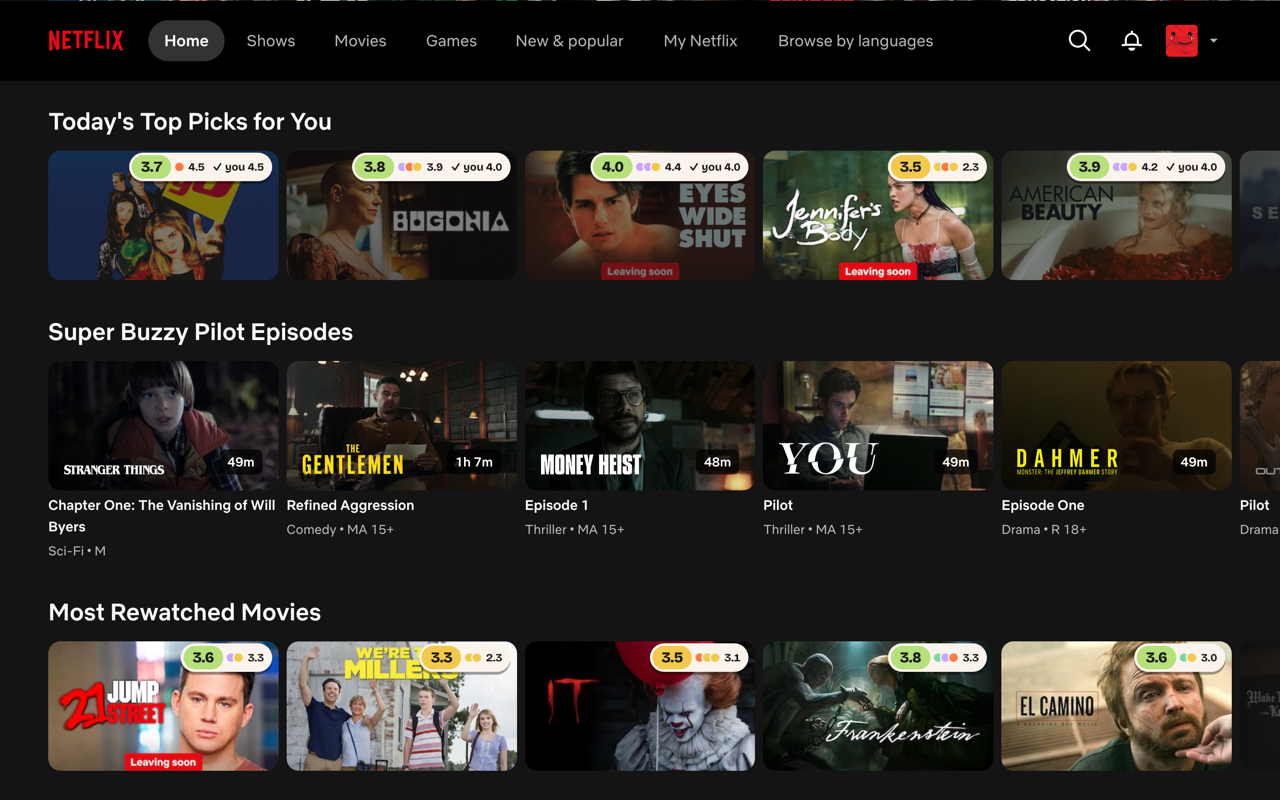
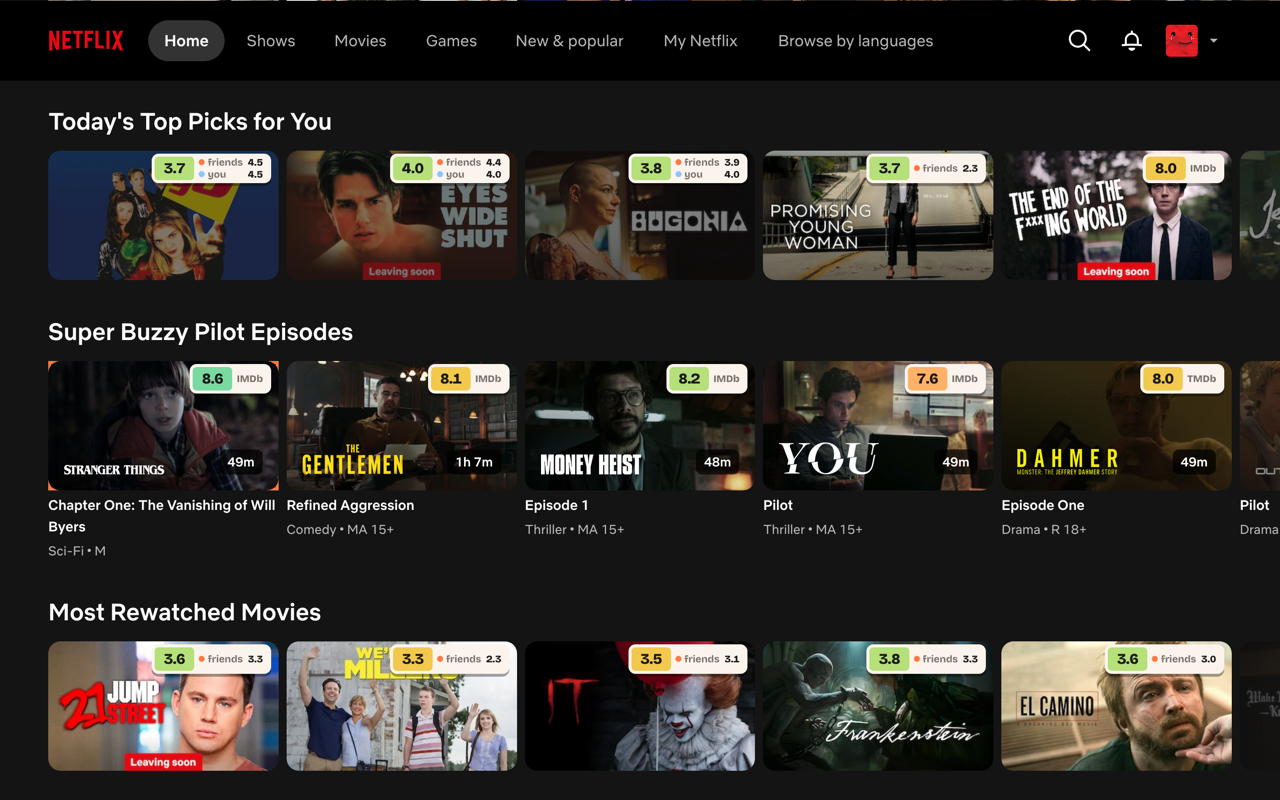
Rate Netflix's episode cards by their series
The "Super Buzzy Pilot Episodes" row uses episodic-card links labelled with
the episode name, with the series only as a logo. Look the series title up
from Netflix's pathEvaluator (videos[episode].ancestor.title), one batched
request per pass, and rate the card as that TV show. The best-in-row
outline goes on the still so it doesn't clip the episode name below.

Retake the Netflix store screenshot with that row rated.

Claude-Session: https://claude.ai/code/session_01FeK25aTVYGXvLZdeNPxoeu

diff --git a/src/content-script/shared-functions.ts b/src/content-script/shared-functions.ts
@@ -21,6 +21,7 @@ import {
 	type EpisodeRating,
 } from "@/utils/page-features"
 import { CreditsRatingPrompt } from "@/utils/letterboxd-actions"
+import { NetflixShowTitles, getEpisodeId } from "@/utils/netflix-shows"
 import {
 	addWatchSeconds,
 	localDateKey,
@@ -301,6 +302,7 @@ const rowPresentation = new RowPresentation()
 const rowCardData = new WeakMap<HTMLElement, MovieInfo>()
 const rowCardTitles = new WeakMap<HTMLElement, string>()
 const rowCardDecorations = new WeakMap<HTMLElement, HTMLElement[]>()
+const netflixShowTitles = new NetflixShowTitles()
 function refreshRowPresentation() {
 	const stale = rowPresentation.prune(
 		(card) => getCleanTitle(card, card.dataset.cardTitle ? 0 : 1) === rowCardTitles.get(card),
@@ -695,7 +697,7 @@ function getAllTitleCardsTypes(): Array<NodeListOf<Element>> {
 	if (isNetflix)
 		AllTitleCardsTypes = [
 			document.querySelectorAll(
-				'a[data-uia="standard-card"]:not(.imdb), a[data-uia="progress-card"]:not(.imdb), a[data-uia="ranked-card"]:not(.imdb)',
+				'a[data-uia="standard-card"]:not(.imdb), a[data-uia="progress-card"]:not(.imdb), a[data-uia="ranked-card"]:not(.imdb), a[data-uia="episodic-card"]:not(.imdb)',
 			),
 		]
 	else if (isHBO) AllTitleCardsTypes = [document.querySelectorAll("a[class*='StyledTileLinkNormal-']:not(.imdb)")]
@@ -743,7 +745,15 @@ async function addRating() {
 			}
 			const media_type = getMediaType(card)
 			const title = getCleanTitle(card, type)
-			if (!title) continue
+			if (!title) {
+				// an episode card whose show is still being looked up gets another pass once it's known
+				if (
+					isNetflixEpisodeCard(card) &&
+					netflixShowTitles.get(getEpisodeId(card.getAttribute("href")) ?? "") === undefined
+				)
+					card.classList.remove("imdb")
+				continue
+			}
 			{
 				// sometimes more than one image is loaded for the same title
 				if (lastTitle != title && !title.includes("Netflix") && !title.includes("Prime Video")) {
@@ -777,7 +787,7 @@ async function addRating() {
 function getMediaType(card: HTMLElement): MediaType {
 	let media_type: MediaType = null
 	if (isNetflix) {
-		if (url.includes("genre/83")) media_type = "tv"
+		if (isNetflixEpisodeCard(card) || url.includes("genre/83")) media_type = "tv"
 		else if (url.includes("genre/34399")) media_type = "movie"
 	} else if (isHBO) {
 		const href = card.getAttribute("href") || ""
@@ -791,9 +801,17 @@ function getMediaType(card: HTMLElement): MediaType {
 	return media_type
 }
 
+// labelled with the episode name, so the series title is looked up (see netflix-shows.ts)
+function isNetflixEpisodeCard(card: HTMLElement) {
+	return card.dataset.uia === "episodic-card"
+}
 function getCleanTitle(card: HTMLElement, type: number): string | undefined {
 	let title: string | undefined
 	if (isNetflix) {
+		if (isNetflixEpisodeCard(card)) {
+			const episodeId = getEpisodeId(card.getAttribute("href"))
+			return (episodeId && netflixShowTitles.get(episodeId)) || undefined
+		}
 		title = card?.getAttribute("aria-label")?.split(" (")[0]
 	} else if (isPrimeVideo) {
 		// detail means not live shows
@@ -1209,8 +1227,11 @@ async function setRatingOnCard(card: HTMLElement, data: MovieInfo, title: string
 	}
 	if (div.isConnected && (isNetflix || isHBO || isPrimeVideo)) {
 		searchSorting.setRating(card, score)
+		const netflixSlot = card.closest<HTMLElement>("[data-virtual-slot]") ?? card.parentElement
+		// episode cards have their name and genre under the still; outline just the still
 		const target = isNetflix
-			? (card.closest<HTMLElement>("[data-virtual-slot]") ?? card.parentElement)
+			? (isNetflixEpisodeCard(card) && card.querySelector<HTMLElement>('[data-uia="episodic-card+still"]')) ||
+				netflixSlot
 			: isHBO
 				? (card.querySelector<HTMLElement>('[data-testid$="_tileImage"]') ?? card)
 				: card
@@ -1218,7 +1239,11 @@ async function setRatingOnCard(card: HTMLElement, data: MovieInfo, title: string
 			rowCardData.set(card, data)
 			rowCardTitles.set(card, title)
 			rowCardDecorations.set(card, [div, greyOverlay])
-			const hideTarget = isNetflix ? target : isPrimeVideo ? (card.closest<HTMLElement>("li") ?? card) : card
+			const hideTarget = isNetflix
+				? (netflixSlot ?? target)
+				: isPrimeVideo
+					? (card.closest<HTMLElement>("li") ?? card)
+					: card
 			rowPresentation.track(card, target, score, hideTarget)
 			refreshRowPresentation()
 		}

diff --git a/src/types/auto-imports.d.ts b/src/types/auto-imports.d.ts
@@ -13,6 +13,7 @@ declare global {
   const DetailRatings: typeof import('../utils/page-features').DetailRatings
   const EffectScope: typeof import('vue').EffectScope
   const HiddenTitlesPromise: typeof import('../stores/options.store').HiddenTitlesPromise
+  const NetflixShowTitles: typeof import('../utils/netflix-shows').NetflixShowTitles
   const PLATFORM_NAMES: typeof import('../utils/stats').PLATFORM_NAMES
   const RowPresentation: typeof import('../utils/row-presentation').RowPresentation
   const SCORE_BANDS: typeof import('../utils/ratings').SCORE_BANDS
@@ -75,6 +76,7 @@ declare global {
   const getCurrentInstance: typeof import('vue').getCurrentInstance
   const getCurrentScope: typeof import('vue').getCurrentScope
   const getCurrentWatcher: typeof import('vue').getCurrentWatcher
+  const getEpisodeId: typeof import('../utils/netflix-shows').getEpisodeId
   const getLetterboxdSlug: typeof import('../utils/ratings').getLetterboxdSlug
   const getRatingMode: typeof import('../utils/preferences').getRatingMode
   const getRatingPercentile: typeof import('../utils/stats').getRatingPercentile
@@ -134,6 +136,7 @@ declare global {
   const parseLetterboxdHtml: typeof import('../utils/ratings').parseLetterboxdHtml
   const parseLetterboxdTmdbId: typeof import('../utils/ratings').parseLetterboxdTmdbId
   const parseProfileGrid: typeof import('../utils/ratings').parseProfileGrid
+  const parseShowTitles: typeof import('../utils/netflix-shows').parseShowTitles
   const pausableWatch: typeof import('@vueuse/core').pausableWatch
   const pickBestMatch: typeof import('../utils/tmdb').pickBestMatch
   const pinia: typeof import('../utils/pinia').pinia
@@ -408,6 +411,9 @@ declare global {
   export type { CreditsRatingPrompt } from '../utils/letterboxd-actions'
   import('../utils/letterboxd-actions')
   // @ts-ignore
+  export type { NetflixShowTitles } from '../utils/netflix-shows'
+  import('../utils/netflix-shows')
+  // @ts-ignore
   export type { DetailRatings, SearchRatingSort, FeatureSite, DetailContext, FeatureRating, EpisodeRating, PersonalStatus } from '../utils/page-features'
   import('../utils/page-features')
   // @ts-ignore
@@ -433,6 +439,7 @@ declare module 'vue' {
     readonly CreditsRatingPrompt: UnwrapRef<typeof import('../utils/letterboxd-actions')['CreditsRatingPrompt']>
     readonly DetailRatings: UnwrapRef<typeof import('../utils/page-features')['DetailRatings']>
     readonly EffectScope: UnwrapRef<typeof import('vue')['EffectScope']>
+    readonly NetflixShowTitles: UnwrapRef<typeof import('../utils/netflix-shows')['NetflixShowTitles']>
     readonly PLATFORM_NAMES: UnwrapRef<typeof import('../utils/stats')['PLATFORM_NAMES']>
     readonly RowPresentation: UnwrapRef<typeof import('../utils/row-presentation')['RowPresentation']>
     readonly SCORE_BANDS: UnwrapRef<typeof import('../utils/ratings')['SCORE_BANDS']>
@@ -493,6 +500,7 @@ declare module 'vue' {
     readonly getCurrentInstance: UnwrapRef<typeof import('vue')['getCurrentInstance']>
     readonly getCurrentScope: UnwrapRef<typeof import('vue')['getCurrentScope']>
     readonly getCurrentWatcher: UnwrapRef<typeof import('vue')['getCurrentWatcher']>
+    readonly getEpisodeId: UnwrapRef<typeof import('../utils/netflix-shows')['getEpisodeId']>
     readonly getLetterboxdSlug: UnwrapRef<typeof import('../utils/ratings')['getLetterboxdSlug']>
     readonly getRatingMode: UnwrapRef<typeof import('../utils/preferences')['getRatingMode']>
     readonly getRatingPercentile: UnwrapRef<typeof import('../utils/stats')['getRatingPercentile']>
@@ -552,6 +560,7 @@ declare module 'vue' {
     readonly parseLetterboxdHtml: UnwrapRef<typeof import('../utils/ratings')['parseLetterboxdHtml']>
     readonly parseLetterboxdTmdbId: UnwrapRef<typeof import('../utils/ratings')['parseLetterboxdTmdbId']>
     readonly parseProfileGrid: UnwrapRef<typeof import('../utils/ratings')['parseProfileGrid']>
+    readonly parseShowTitles: UnwrapRef<typeof import('../utils/netflix-shows')['parseShowTitles']>
     readonly pausableWatch: UnwrapRef<typeof import('@vueuse/core')['pausableWatch']>
     readonly pickBestMatch: UnwrapRef<typeof import('../utils/tmdb')['pickBestMatch']>
     readonly pinia: UnwrapRef<typeof import('../utils/pinia')['pinia']>

diff --git a/src/utils/netflix-shows.ts b/src/utils/netflix-shows.ts
@@ -1,0 +1,72 @@
+// Netflix's episode cards ("Super Buzzy Pilot Episodes") are labelled with the episode name and show the series
+// only as a logo, so the series title comes from Netflix's own pathEvaluator: videos[episode].ancestor.title.
+const PATH_EVALUATOR = "/nq/website/memberapi/release/pathEvaluator?original_path=%2Fshakti%2Fmre%2FpathEvaluator"
+const BATCH_DELAY_MS = 50
+
+type Atom<T> = { $type: "atom"; value: T }
+type Ref = { $type: "ref"; value: [string, string] }
+type JsonGraph = { videos?: Record<string, { title?: Atom<string>; ancestor?: Ref }> }
+
+// The show title for each episode id in a pathEvaluator response; ids without an ancestor map to null.
+export function parseShowTitles(ids: string[], graph: JsonGraph | undefined): Map<string, string | null> {
+	const videos = graph?.videos ?? {}
+	return new Map(
+		ids.map((id) => {
+			const showId = videos[id]?.ancestor?.value?.[1]
+			return [id, (showId && videos[showId]?.title?.value) || null]
+		}),
+	)
+}
+
+export function getEpisodeId(href: string | null): string | null {
+	return href?.match(/[?&]jbv=(\d+)/)?.[1] ?? null
+}
+
+// Firefox sends a content script's own fetch as the extension, which Netflix refuses; content.fetch goes as the page.
+// Chrome's content-script fetch already goes as the page.
+const pageFetch: typeof fetch = (...args) =>
+	((globalThis as { content?: { fetch?: typeof fetch } }).content?.fetch ?? fetch)(...args)
+
+export class NetflixShowTitles {
+	// undefined: not asked yet, null: asked and Netflix has no show for it
+	private titles = new Map<string, string | null>()
+	private queued = new Set<string>()
+	private inFlight = new Set<string>()
+	private timer: ReturnType<typeof setTimeout> | undefined
+
+	constructor(private fetcher: typeof fetch = pageFetch) {}
+
+	// The cached title, or undefined while it's being looked up (callers retry on their next pass)
+	get(id: string): string | null | undefined {
+		if (this.titles.has(id)) return this.titles.get(id)
+		if (this.inFlight.has(id)) return undefined
+		this.queued.add(id)
+		this.timer ??= setTimeout(() => this.flush(), BATCH_DELAY_MS)
+		return undefined
+	}
+
+	private async flush() {
+		this.timer = undefined
+		const ids = [...this.queued]
+		this.queued.clear()
+		for (const id of ids) this.inFlight.add(id)
+		let titles = new Map<string, string | null>()
+		try {
+			const response = await this.fetcher(`${location.origin}${PATH_EVALUATOR}`, {
+				method: "POST",
+				credentials: "include",
+				headers: { "content-type": "application/x-www-form-urlencoded" },
+				body: "path=" + encodeURIComponent(JSON.stringify(["videos", ids.map(Number), "ancestor", "title"])),
+			})
+			if (!response.ok) throw new Error(`pathEvaluator ${response.status}`)
+			titles = parseShowTitles(ids, (await response.json()).jsonGraph)
+		} catch (error) {
+			console.log("Netflix show lookup failed:", error)
+		}
+		// anything Netflix didn't answer for stays null (unrated) rather than retrying on every pass
+		for (const id of ids) {
+			this.titles.set(id, titles.get(id) ?? null)
+			this.inFlight.delete(id)
+		}
+	}
+}

diff --git a/src/tests/content-script/netflix-shows.test.ts b/src/tests/content-script/netflix-shows.test.ts
@@ -1,0 +1,67 @@
+import { afterEach, describe, expect, it, vi } from "vitest"
+import { NetflixShowTitles, getEpisodeId } from "../../utils/netflix-shows"
+
+// trimmed from a real pathEvaluator response for the "Super Buzzy Pilot Episodes" row
+const jsonGraph = {
+	videos: {
+		"80057281": { title: { $type: "atom", value: "Stranger Things" } },
+		"80077368": { ancestor: { $type: "ref", value: ["videos", "80057281"] } },
+		"81437051": { title: { $type: "atom", value: "The Gentlemen" } },
+		"81646429": { ancestor: { $type: "ref", value: ["videos", "81437051"] } },
+	},
+}
+
+describe("Netflix episode cards", () => {
+	afterEach(() => vi.useRealTimers())
+
+	it("reads the episode id from the card link", () => {
+		expect(getEpisodeId("/browse?jbv=80077368")).toBe("80077368")
+		expect(getEpisodeId("/browse?foo=1&jbv=81646429")).toBe("81646429")
+		expect(getEpisodeId("/title/80077368")).toBeNull()
+		expect(getEpisodeId(null)).toBeNull()
+	})
+
+	it("looks up the shows for a row of episodes in one request", async () => {
+		vi.useFakeTimers()
+		const fetcher = vi.fn(async () => ({ ok: true, json: async () => ({ jsonGraph }) }) as Response)
+		const titles = new NetflixShowTitles(fetcher)
+
+		expect(titles.get("80077368")).toBeUndefined()
+		expect(titles.get("81646429")).toBeUndefined()
+		expect(titles.get("123")).toBeUndefined()
+		await vi.runAllTimersAsync()
+
+		expect(fetcher).toHaveBeenCalledOnce()
+		const [, init] = fetcher.mock.calls[0] as unknown as [string, RequestInit]
+		const body = decodeURIComponent(String(init.body))
+		expect(body).toBe('path=["videos",[80077368,81646429,123],"ancestor","title"]')
+		expect(titles.get("80077368")).toBe("Stranger Things")
+		expect(titles.get("81646429")).toBe("The Gentlemen")
+		expect(titles.get("123")).toBeNull()
+	})
+
+	it("keeps reporting a lookup as pending until Netflix answers", async () => {
+		vi.useFakeTimers()
+		let answer!: (response: Response) => void
+		const fetcher = vi.fn(() => new Promise<Response>((resolve) => (answer = resolve)))
+		const titles = new NetflixShowTitles(fetcher)
+		titles.get("80077368")
+		await vi.advanceTimersByTimeAsync(100)
+		expect(titles.get("80077368")).toBeUndefined()
+		answer({ ok: true, json: async () => ({ jsonGraph }) } as Response)
+		await vi.runAllTimersAsync()
+		expect(titles.get("80077368")).toBe("Stranger Things")
+		expect(fetcher).toHaveBeenCalledOnce()
+	})
+
+	it("leaves the episodes unrated instead of retrying when Netflix refuses", async () => {
+		vi.useFakeTimers()
+		const fetcher = vi.fn(async () => ({ ok: false, status: 412 }) as Response)
+		const titles = new NetflixShowTitles(fetcher)
+		titles.get("80077368")
+		await vi.runAllTimersAsync()
+		expect(titles.get("80077368")).toBeNull()
+		await vi.runAllTimersAsync()
+		expect(fetcher).toHaveBeenCalledOnce()
+	})
+})
